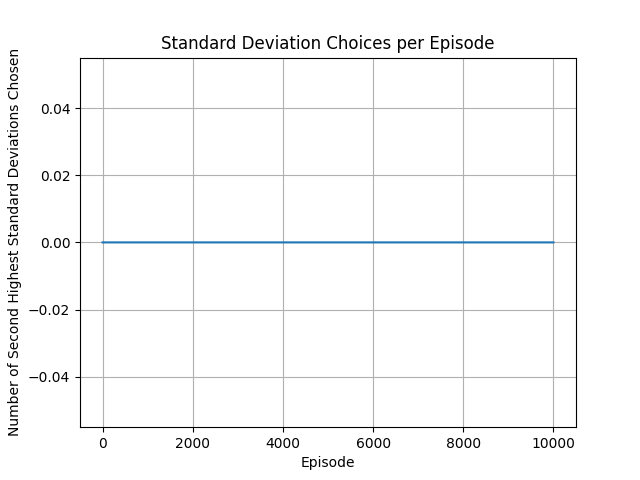
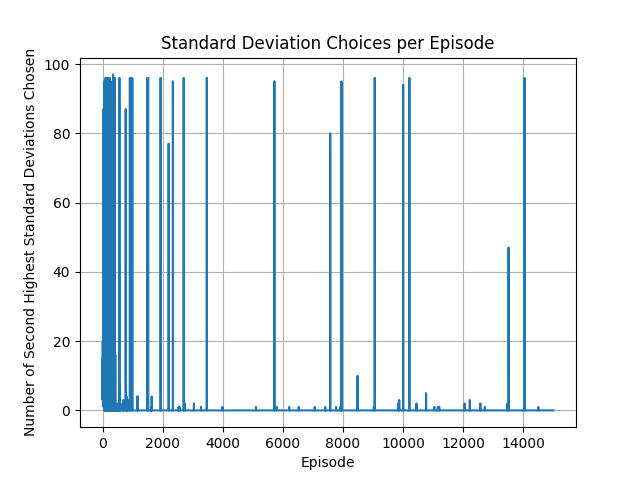
standard deviation workinng with more info added to agent

diff --git a/SULI/src/simulation.py b/SULI/src/simulation.py
@@ -51,9 +51,10 @@ class CustomEnvironment(Environment):
     allEpisodes = np.array([])
     expected = np.array([])
     actual = np.array([])
-    losses = np.array([])
+    rewards = np.array([])
 
-    for i in range(10000):
+
+    for i in range(15000):
         allEpisodes = np.append(allEpisodes, i)
 
 
@@ -139,7 +140,7 @@ class CustomEnvironment(Environment):
 
 
     def states(self):
-        return dict(type='float', shape=(len([0]),))
+        return dict(type='float', shape=(len([0, 0, 0]),))
 
     def actions(self):
         return dict(type='int', num_values=self.SAMPLES)
@@ -178,21 +179,24 @@ class CustomEnvironment(Environment):
         for i in range(self.SAMPLES):
             self.minSampling[i] = 0
         # here we convert to float32 to make it more general (in case we want to use continuous actions)
-        return np.array([0]).astype(np.float32)
+        return np.array([0, 0, 0]).astype(np.float32)
 
     def execute(self, actions):
         # self.extraCounter += 1
         CustomEnvironment.extraCounter += 1
         maxStdDev = []
         reward = 0
-        if (actions >= 0 and actions < self.SAMPLES):
+        randomizer = randint(0, 2)
 
+        if (actions >= 0 and actions < self.SAMPLES):
             # CustomEnvironment.allActions = np.append(CustomEnvironment.allActions, actions)
             for i in range(self.SAMPLES):
                 self.stdDev[i] = stdDeviaiton(array=self.GRID[i])
             maxStdDev = nlargest(3, self.stdDev, key=self.stdDev.get)
-            print(actions, maxStdDev)
-            print(actions, "vs.", self.shape[1][self.agent_pos - 1])
+            # if randomizer == 0:
+            #     maxStdDev[0] == randint(0, self.SAMPLES - 1)
+            # print(actions, maxStdDev)
+            # print(actions, "vs.", self.shape[1][self.agent_pos - 1])
             # if actions == self.shape[1][self.agent_pos - 1]:
             #     self.reward -= 1
             #     self.repeatCounter += 1
@@ -204,6 +208,10 @@ class CustomEnvironment(Environment):
             if actions == maxStdDev[0]:
                 self.reward += 1
                 self.highest += 1
+            if actions == maxStdDev[1]:
+                self.sndHighest += 1
+            if actions == maxStdDev[2]:
+                self.trdHighest += 1
             # elif actions == maxStdDev[1]:
             #     self.reward += 2
             #     self.sndHighest += 1
@@ -221,10 +229,10 @@ class CustomEnvironment(Environment):
             if actions == self.worstSeed:
                 self.GRID[actions][self.agent_pos] = randint(0, 1000000)
             else:
-                self.GRID[actions][self.agent_pos] = randint(0, 10000)
+                self.GRID[actions][self.agent_pos] = randint(0, 1000000)
             self.minSampling[actions] += 1
             self.agent_pos += 1
-            print(list(self.stdDev.values()))
+            # print(list(self.stdDev.values()))
             maxStdDev = nlargest(3, self.stdDev, key=self.stdDev.get)
         else:
             raise ValueError("Received invalid action={} which is not part of the action space".format(actions))
@@ -242,14 +250,15 @@ class CustomEnvironment(Environment):
         done = bool(self.agent_pos == self.TRIALS)
 
         reward = self.reward
-        print(reward)
+        # print(reward)
         if done:
             CustomEnvironment.highest_arr = np.append(CustomEnvironment.highest_arr, self.highest)
             CustomEnvironment.sndHighest_arr = np.append(CustomEnvironment.sndHighest_arr, self.sndHighest)
             CustomEnvironment.trdHighest_arr = np.append(CustomEnvironment.trdHighest_arr, self.trdHighest)
             # reward += 1
             self.sum += 1
-            if self.sum > 6000:
+            CustomEnvironment.rewards = np.append(CustomEnvironment.rewards, reward)
+            if self.sum > 10000:
                 # mostChosen = nlargest(3, self.minSampling, key=self.minSampling.get)
                 # CustomEnvironment.firstCount += self.minSampling[mostChosen[0]]
                 # CustomEnvironment.secondCount += self.minSampling[mostChosen[1]]
@@ -263,13 +272,13 @@ class CustomEnvironment(Environment):
             # y_pred = [[0.6, 0.4], [0.4, 0.6]]
             loss = tf.keras.losses.binary_crossentropy(CustomEnvironment.actual, CustomEnvironment.expected)
             # assert loss.shape == (2,)
-            print("LOSSSSSS", type(loss))
+            # print("LOSSSSSS", type(loss))
             # CustomEnvironment.losses = np.append(CustomEnvironment.losses, loss)
+            #
+            # print(self.minSampling)
+        # print("check", self.shape[1])
 
-            print(self.minSampling)
-        print("check", self.shape[1])
-
-        returning = np.array([maxStdDev[0]]).astype(np.float32), reward, done
+        returning = np.array(maxStdDev).astype(np.float32), reward, done
 
         return returning
 
@@ -280,7 +289,8 @@ def runEnv():
     agent = Agent.create(agent='a2c', environment=environment, batch_size=10, learning_rate=1e-3)
 
     # Train for 200 episodes
-    for _ in range(6000):
+    for _ in range(10000):
+        print("Episode:  ", _)
         states = environment.reset()
         terminal = False
         while CustomEnvironment.extraCounter != 100:
@@ -292,7 +302,8 @@ def runEnv():
 
     # Evaluate for 100 episodes
     sum_rewards = 0.0
-    for _ in range(4000):
+    for _ in range(5000):
+        print("Episode:  ", _ + 10000)
         states = environment.reset()
         internals = agent.initial_internals()
         terminal = False
@@ -313,7 +324,7 @@ def runEnv():
 
 def lossPlot():
     # Data for plotting
-    x = CustomEnvironment.losses
+    x = CustomEnvironment.rewards
     s = CustomEnvironment.allEpisodes
 
 
@@ -321,11 +332,11 @@ def lossPlot():
     ax.plot(s, x)
 
 
-    ax.set(xlabel='Episode', ylabel='Loss',
+    ax.set(xlabel='Episode', ylabel='Rewards',
            title='Loss per Episode')
     ax.grid()
 
-    fig.savefig("loss.png")
+    fig.savefig("rewards.png")
     plt.show()
 
 
@@ -380,11 +391,52 @@ def makePlot3():
     fig.savefig("test3.png")
     plt.show()
 
+def badSeedsPlot():
+    badSeeds = CustomEnvironment.highest_arr
+    total1 = 0
+    total2 = 0
+    total3 = 0
+    for i in range(len(CustomEnvironment.highest_arr)):
+        badSeeds[i] += (CustomEnvironment.sndHighest_arr[i] + CustomEnvironment.trdHighest_arr[i])
+        total1 += CustomEnvironment.highest_arr[i]
+        total2 += CustomEnvironment.sndHighest_arr[i]
+        total3 += CustomEnvironment.trdHighest_arr[i]
+    z = badSeeds
+    s = CustomEnvironment.allEpisodes
+
+
+    fig, ax = plt.subplots()
+    ax.plot(s, z)
+
+
+    ax.set(xlabel='Episode', ylabel='Number of Third Highest Standard Deviations Chosen',
+           title='Standard Deviation Choices per Episode')
+    ax.grid()
+
+    fig.savefig("total.png")
+    plt.show()
+
+    total1 = total1 / 15000
+    total2 = total2 / 15000
+    total3 = total3 / 15000
+    other = 100 - total1 - total2 - total3
+    # Pie chart, where the slices will be ordered and plotted counter-clockwise:
+    labels = 'Highest Standard Deviation', 'Second Highest Standard Deviation', 'Third Highest Standard Deviation', 'Other'
+    sizes = [total1, total2, total3, other]
+
+    fig1, ax1 = plt.subplots()
+    ax1.pie(sizes, labels=labels, autopct='%1.1f%%',
+            shadow=True, startangle=90)
+    ax1.axis('equal')  # Equal aspect ratio ensures that pie is drawn as a circle.
+    fig1.savefig("totalPie.png")
+    plt.show()
+
 if __name__ == "__main__":
     runEnv()
     makePlot1()
     makePlot2()
     makePlot3()
+    badSeedsPlot()
     lossPlot()
     # logdir = "logs/scalars/" + datetime.now().strftime("%Y%m%d-%H%M%S")
     # tensorboard_callback = keras.callbacks.TensorBoard(log_dir=logdir)
